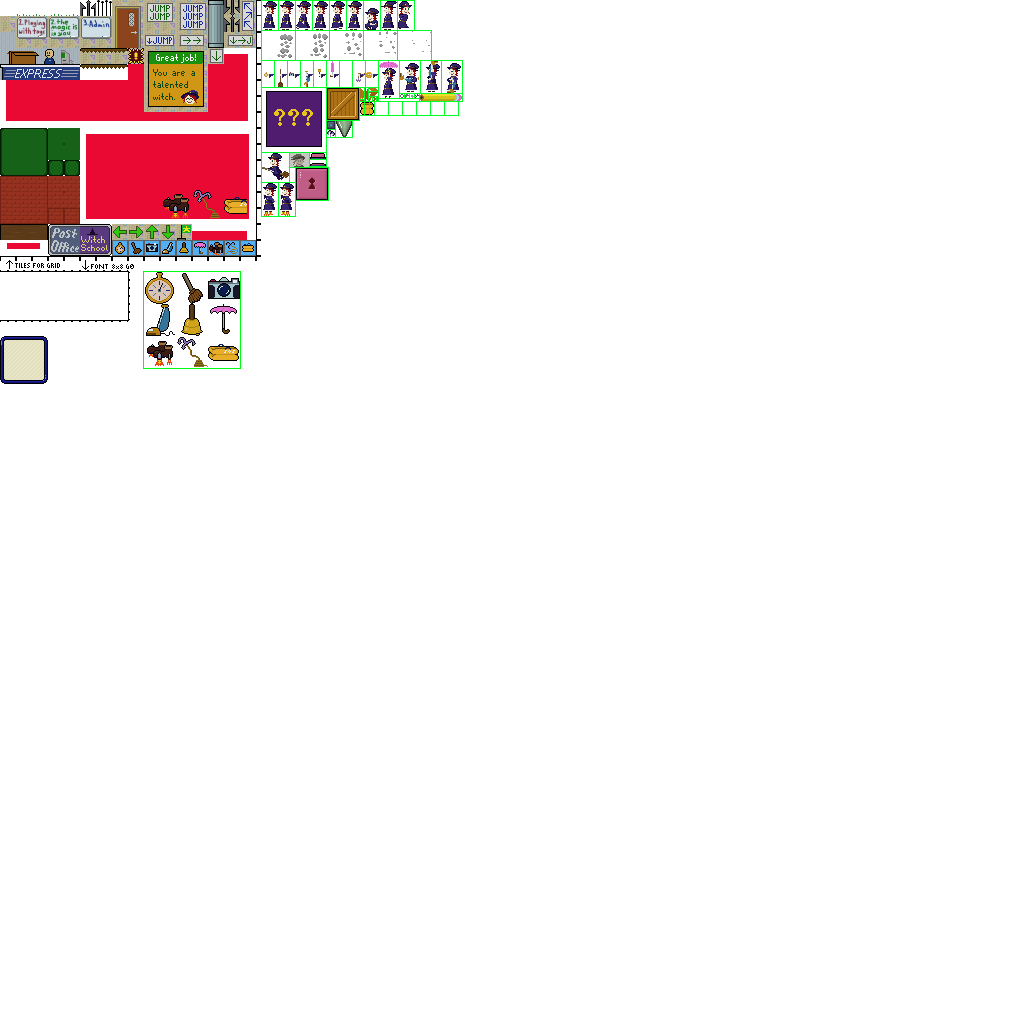
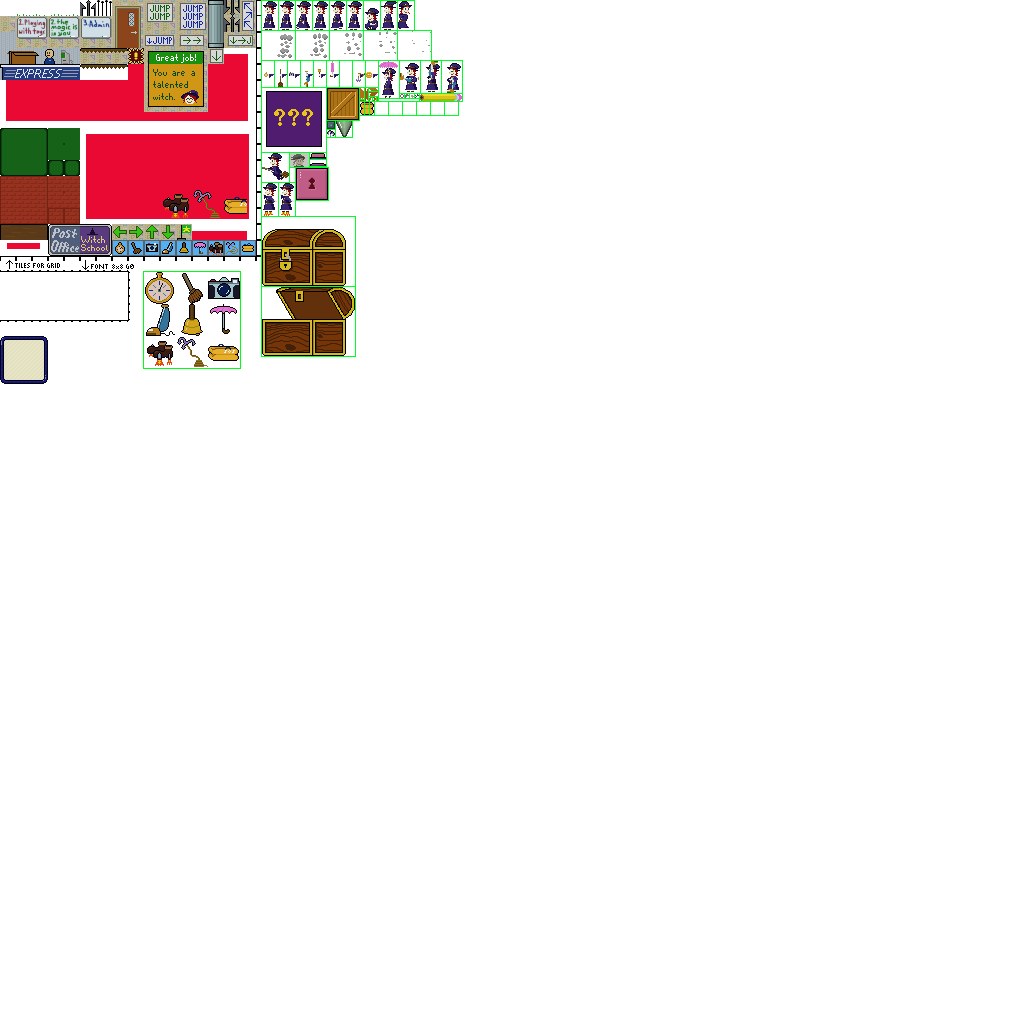
treasure chests

Changed region(s): [[0.25, 0.2188, 0.3438, 0.375]]

diff --git a/src/www/js/game/sprites/ChestSprite.js b/src/www/js/game/sprites/ChestSprite.js
@@ -1,0 +1,78 @@
+/* ChestSprite.js
+ * The Treasure Anti-Chest, there are 9 in the game.
+ * args: permanentStateKey
+ */
+ 
+import { Sprite } from "../Sprite.js";
+
+const TILESIZE = 16;
+
+export class ChestSprite extends Sprite {
+  constructor(scene, col, row, args) {
+    super(scene);
+    this.x = col * TILESIZE;
+    this.y = (row + 1) * TILESIZE - 69;
+    this.srcx = 262;
+    this.srcy = 287; // 287=OPEN 217=CLOSED
+    this.vw = 93;
+    this.vh = 69;
+    this.permanentStateKey = args[0] || "";
+    this.sated = false;
+    
+    if (this.permanentStateKey) {
+      if (this.scene.game.permanentState[this.permanentStateKey]) {
+        this.sated = true;
+        this.srcy = 217;
+      }
+    }
+  }
+  
+  update(elapsed) {
+    // Turn to face the hero, as chests do.
+    if (this.scene.herox < this.x) {
+      if (this.flop) {
+        this.flop = false;
+      }
+    } else if (this.scene.herox > this.x + this.vw) {
+      if (!this.flop) {
+        this.flop = true;
+      }
+    }
+    
+    // If we're not sated yet, and the hero is in our bounds and has an item equipped, eat it.
+    if (!this.sated && this.scene.game.inventory[this.scene.game.selectedItem] && this.touchesHero()) {
+      this.sated = true;
+      this.srcy = 217;
+      this.scene.game.inventory[this.scene.game.selectedItem] = false;
+      //TODO sound effect
+      //TODO other feedback? this event is pretty much the biggest deal we do.
+      if (this.permanentStateKey) {
+        this.scene.game.setPermanentState(this.permanentStateKey, true);
+      }
+    }
+    
+    //TODO I'd really get a kick out of making the lid go up and down and a word bubble appear like "FEED ME!"
+  }
+  
+  touchesHero() {
+    if (this.scene.herox < this.x) return false;
+    if (this.scene.heroy < this.y) return false;
+    if (this.scene.herox >= this.x + this.vw) return false;
+    if (this.scene.heroy >= this.y + this.vh) return false;
+    return true;
+  }
+  
+  onPermanentState(k, v) {
+    if (k === this.permanentStateKey) {
+      if (v) {
+        if (this.sated) return;
+        this.sated = true;
+        this.srcy = 217;
+      } else {
+        if (!this.sated) return;
+        this.sated = false;
+        this.srcy = 287;
+      }
+    }
+  }
+}

diff --git a/src/www/js/game/Scene.js b/src/www/js/game/Scene.js
@@ -17,18 +17,19 @@ import { CrusherSprite } from "./sprites/CrusherSprite.js";
 import { PlatformSprite } from "./sprites/PlatformSprite.js";
 import { SwitchSprite } from "./sprites/SwitchSprite.js";
 import { BlockSprite } from "./sprites/BlockSprite.js";
+import { ChestSprite } from "./sprites/ChestSprite.js";
 
 const TILESIZE = 16;
  
 export class Scene {
   static getDependencies() {
-    return [/*Game,*/ Physics, DataService];
+    return [Physics, DataService];
   }
-  constructor(/*game,*/ physics, dataService) {
-    this.game = null; // owner must provide
+  constructor(physics, dataService) {
     this.physics = physics;
     this.dataService = dataService;
     
+    this.game = null; // owner must provide
     this.physics.scene = this;
     
     this.backgroundColor = "#66bbff";
@@ -74,6 +75,7 @@ export class Scene {
     this.camera.cutNext = true;
     this.spawnAtEntranceOnly = false;
     this.timeSinceLoad = 0;
+    this.transientState = {};
     
     /* If we were given a hero sprite, keep it.
      * And if there's also a door (or edgeDoor), adjust the hero's position accordingly.
@@ -182,6 +184,7 @@ export class Scene {
       case "PlatformSprite": return new PlatformSprite(this, col, row, cmd.slice(4));
       case "SwitchSprite": return new SwitchSprite(this, col, row, cmd.slice(4));
       case "BlockSprite": return new BlockSprite(this, col, row, cmd.slice(4));
+      case "ChestSprite": return new ChestSprite(this, col, row, cmd.slice(4));
     }
     throw new Error(`Unknown spriteId ${JSON.stringify(spriteId)}`);
   }

diff --git a/src/www/js/game/Game.js b/src/www/js/game/Game.js
@@ -42,6 +42,7 @@ export class Game {
     this.selectedItem = 4; // 0..9. 4=bell
     this.inventory = [true, true, true, true, true, true, true, true, true]; // indexed by itemid
     this.timeFrozen = false;
+    this.permanentState = {};
   }
   
   /* Returns a Promise that resolves when our content is all loaded and ready to go.
@@ -146,6 +147,15 @@ export class Game {
       this.menu = null;
     }
     controller.dismissing();
+  }
+  
+  setPermanentState(k, v) {
+    if (!k) return;
+    if (this.permanentState[k] === v) return;
+    this.permanentState[k] = v;
+    for (const sprite of this.scene.sprites) {
+      if (sprite.onPermanentState) sprite.onPermanentState(k, v);
+    }
   }
 }
 

diff --git a/README.md b/README.md
@@ -11,7 +11,7 @@ https://github.com/aksommerville/too-heavy
 - By 22 December
 - - [ ] Ensure I have a sane build environment on a laptop before leaving
 - - [x] Switches. Must reset if you die (see camera lesson)
-- - [ ] Treasure anti-chests.
+- - [x] Treasure anti-chests.
 - By 1 January
 - - [ ] Final maps.
 - - [ ] Dialogue.
